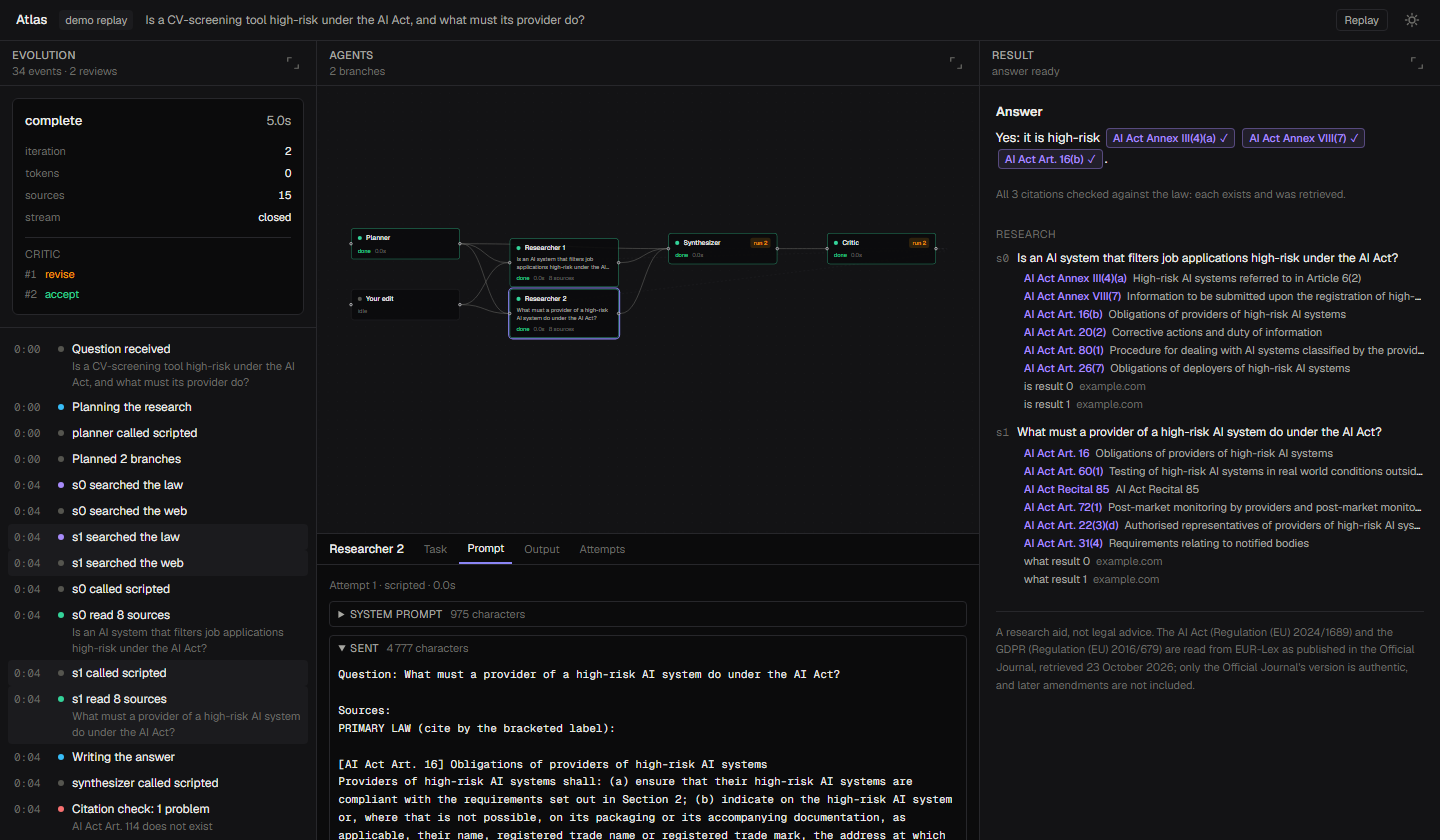
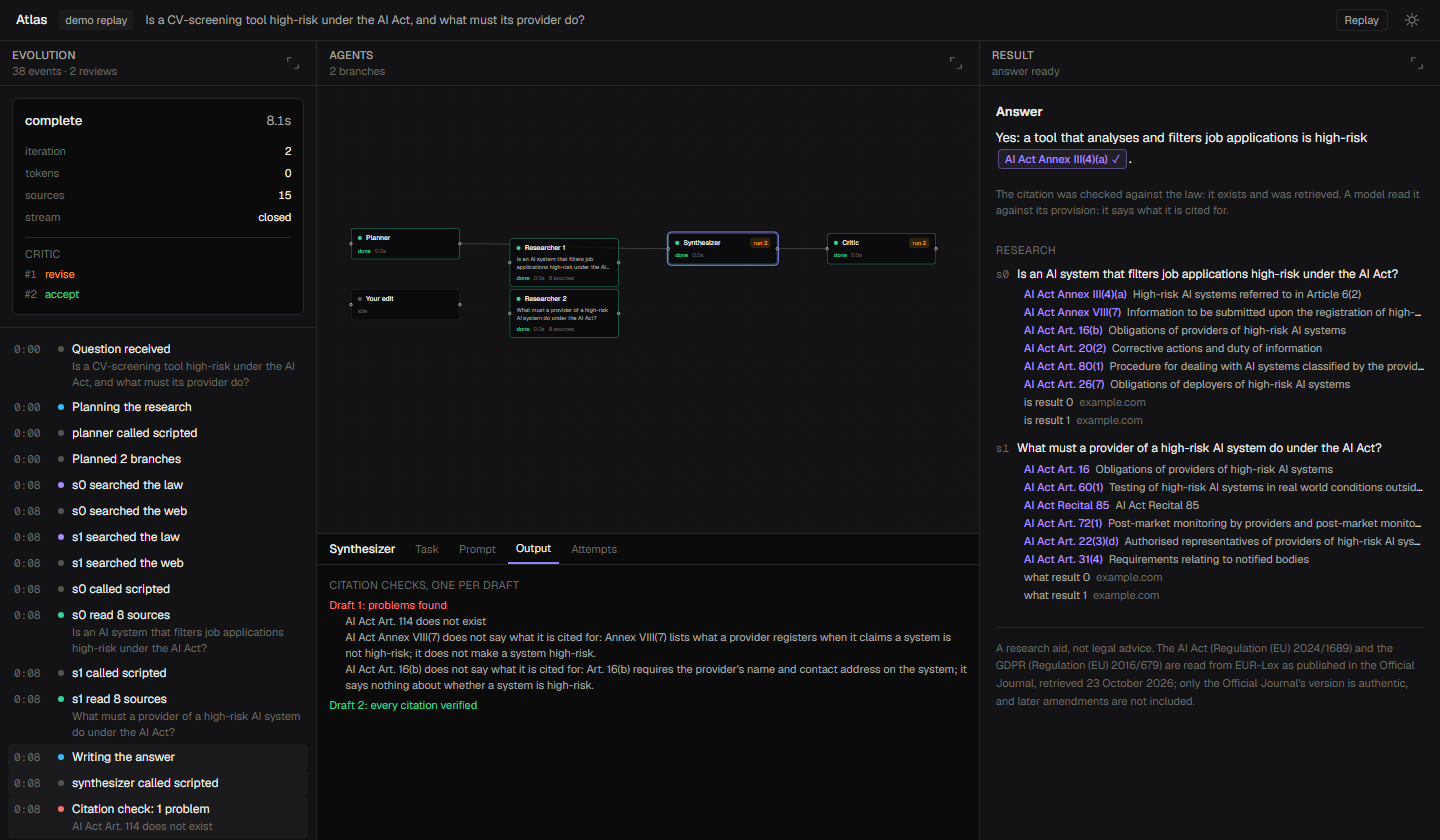
docs: the support check in the README, the report and the screenshot
The screenshot opens the synthesizer's drafts: the first caught for an
invented article and for two citations that do not say what they are
cited for, the second clean. The report says why the check exists (the
Art. 2(3) run), how it is held to evidence, and that its accuracy is
not measured yet. Test counts brought up to date.

diff --git a/docs/REPORT.md b/docs/REPORT.md
@@ -126,8 +126,28 @@ approve an answer citing an article that does not exist; this check is not a jud
 not defer to one. When the rounds run out, the answer goes out marked `unverified_citation` rather
 than silently.
 
+**Then, a check of what the citation says.** The first live run through the new workspace cited
+`[AI Act Art. 2(3)]` for the act reaching providers outside the Union. That paragraph is the
+national-security exclusion; the rule meant is Art. 2(1)(c). The provision existed and had been
+retrieved, so the three tests passed it. The model critic, asked to hold claims to their provisions,
+passed it too. Telling the two apart takes reading, so a model does it, as narrowly as possible
+(`atlas/library/support.py`):
+
+- **It sees one claim at a time.** For each citation that passed the three tests, the judge gets
+  one sentence and the cited provision's own text. It never sees the whole answer or its sources.
+- **"Supported" must quote the provision's words, verbatim.** The quote is checked against the
+  text with the same matcher as quotations in answers. A support claim whose quote is not there is
+  *unverified*. That is not evidence the citation is wrong, so nothing is sent back for it; nor is
+  it evidence it is right, so it is not counted as supported.
+- **Only an explicit "does not support" sends a draft back.** The judge's one-line reason goes to
+  the rewrite. Out of rounds, the answer goes out marked `unsupported_citation`.
+- **Its cost is bounded.** One call per critic round, run alongside the critic's own review, up to
+  12 citations, with the rest counted unchecked. A failed call is recorded as
+  `citation_support_unavailable`, never read as a pass.
+
 **How the UI and the API stay in step.** The UI shows each citation as a chip with the last check's
-verdict. The chip's parser is a TypeScript port of the backend's. It is held to a fixture the backend
+verdict. A support judgement is shown only on the draft it judged: draft *n* is read in critic
+round *n*, and a reading of another draft says nothing about the answer on screen. The chip's parser is a TypeScript port of the backend's. It is held to a fixture the backend
 writes from its own parser (`citation-cases.json`), so the two cannot drift apart silently.
 
 ### 3.5 Editing a branch forks a run
@@ -251,6 +271,7 @@ wrong thing, while everything looks fine. These were found during this work:
 | The component tests typechecked | Two never had: on a case-insensitive disk `Inspector.test.tsx` and `inspector.test.ts` share a name, and TypeScript keeps only the `.ts` | A required prop added without a type error |
 | The demo showed agents | Its recording bypassed the model layer, so it held no prompts to show | Opening the Prompt tab on the demo |
 | A compliance baseline could be scored | The judge charged `plain` for tool use and grounding it cannot have | A test, failing first, at 0.67 |
+| A live answer's citations all passed | One cited the national-security exclusion, Art. 2(3), for extraterritorial reach, Art. 2(1)(c); real, retrieved, and wrong | Reading the provision a chip linked to. That reading is now the support check |
 | A deleted run's stream was gone | The Redis test double's DEL ignored streams, so the tests could not tell | Making the double behave like Redis |
 | `DELETE /threads/{id}` was queued | A renamed worker function would have left every deletion queued for nobody | A test pinning the job's registered name |
 
@@ -260,9 +281,10 @@ wrong thing, while everything looks fine. These were found during this work:
 |---|---|
 | Library retrieval, one search per question | recall@10 0.750, recall@5 0.625, all must-cites for 26 of 40 |
 | Engine regression gate, 50 general questions | completion 0.995, grounding 0.955, tool use 0.963; thresholds 5 / 4 / 3 pp from a measured noise floor |
-| Tests | 515 backend, 13 more against Postgres, 127 frontend; no network, no spend |
+| Tests | 527 backend, 13 more against Postgres, 135 frontend; no network, no spend |
 | **Not measured: the domain eval** | Built and tested; needs about $12–15 of model calls (estimated) |
 | **Not measured: Atlas's own retrieval** | One search per branch, rather than per question |
+| **Not measured: the support check's accuracy** | How often its "does not support" is right, and how often it misses one |
 | **Not done: dataset review** | The 40 compliance questions were drafted by a model; none has been reviewed by a person |
 
 ## 6. Limitations
@@ -274,9 +296,10 @@ wrong thing, while everything looks fine. These were found during this work:
   questions and rubrics are a model's drafts until a person reviews them, and the README says so.
 - **The eval measures citing the law, not guidance.** With the web off, it does not measure how
   well Atlas uses official guidance.
-- **The citation check stops at existence, retrieval and quotation.** It tests that a cited
-  provision exists, was read, and is quoted faithfully. It does not test that the provision supports
-  the sentence around it; that is the judge's grounding score, which is a judgement.
+- **Whether a provision supports its sentence is a judgement.** The deterministic check stops at
+  existence, retrieval and quotation. The support check goes further, but it is a model reading, held
+  to quotes it cannot fake and not yet measured. A wrong "does not support" costs a rewrite; a missed
+  one goes out as before.
 - **One person.** The dataset, the labels and the review are one person's.
 
 ## 7. Reproducing

diff --git a/README.md b/README.md
@@ -14,9 +14,11 @@ the research and re-run only that branch.
   <img alt="The Atlas workspace: the run's timeline on the left, the agent graph with one researcher's exact prompt open in the middle, and the answer with its checked citation chips on the right" src="docs/img/workspace-light.png">
 </picture>
 
-*The recorded demo. The citation check has caught an invented article, "AI Act Art. 114" (the act
-has 113), and sent the draft back. Researcher 2's exact prompt is open, with the law it was given.
-Each chip in the answer carries its check's verdict.*
+*The recorded demo, with the synthesizer's drafts open. The first draft cited an article that does
+not exist ("AI Act Art. 114"; the act has 113). It also cited two real, retrieved provisions for
+something they do not say: Art. 16(b) is about the provider's contact details, not about what is
+high-risk. Both checks sent it back. The rewrite keeps the one citation that holds, read against its
+provision.*
 
 > A research aid, not legal advice. The law's text is EUR-Lex's, reused under Commission Decision
 > 2011/833/EU; see [NOTICE](NOTICE).
@@ -38,8 +40,13 @@ that. A check that knows the law does.
   - a researcher actually retrieved it in this run;
   - any quotation beside it is the provision's own words.
 
-  A draft that fails is sent back with the failures listed. In the UI each citation is a chip
-  carrying its verdict; hover it to read the article itself.
+  Then a model reads each citation that passed, one sentence and one provision at a time, and judges
+  whether the provision says what the sentence says. A "yes" counts only if it quotes the provision's
+  own words, and the quote is checked against the text.
+
+  A draft that fails either check is sent back with the failures listed. In the UI each citation is
+  a chip carrying its verdict; hover it to read the article, and why it was or was not judged to
+  support its sentence.
 - **It reads the law, not a search engine's idea of it.**
   - Both regulations are ingested from the Publications Office's official XHTML into provisions with
     stable ids. Golden counts are tested: the AI Act's 113 articles, 13 annexes and 180 recitals; the
@@ -81,8 +88,9 @@ npm run dev
 Open <http://127.0.0.1:3000/demo>. It shows a recorded run replayed through the real workspace:
 
 - researchers reading the regulation library;
-- the citation check catching an invented article in the first draft;
-- the rewrite that fixes it.
+- the first draft caught twice: once citing an invented article, and once citing two real provisions
+  for what they do not say;
+- the rewrite that fixes both.
 
 Click any agent to read the prompt it was actually sent. The open agent and tab live in the URL, so
 <http://127.0.0.1:3000/demo?node=researcher:s1&tab=prompt> goes straight to one researcher's prompt. The recording ran through the real graph and
@@ -96,7 +104,7 @@ prompts, with only the model scripted, and the run says so: each call reports th
 |---|---|
 | Library retrieval, one search per question | recall@10 **0.750** over the 40 compliance questions; every required provision found for 26 of 40 (`atlas_eval retrieval`) |
 | Engine regression gate, 50 general questions | completion 0.995, grounding 0.955, tool use 0.963; run-to-run noise measured, gate thresholds set from it (5 / 4 / 3 pp) |
-| Tests | **515** backend (plus 13 against Postgres) · **127** frontend, no network calls, no spend |
+| Tests | **527** backend (plus 13 against Postgres) · **135** frontend, no network calls, no spend |
 
 **Not measured yet: the headline.** The domain eval compares three systems on 40 questions:
 
@@ -107,6 +115,9 @@ prompts, with only the model scripted, and the run says so: each call reports th
 It scores the share of answers citing a provision that does not exist, plus citation precision and
 recall, all deterministically. It is built and tested ([below](#the-domain-eval)) but has not been
 run. Its numbers will come from committed run files, never typed in.
+
+How often the support check judges correctly is not measured yet either. It is a model's judgement,
+held to quotes it cannot fake, but nobody has counted its mistakes.
 
 The 40 questions were drafted by a model from the regulation text, and every expected citation is
 checked against the library. None has been reviewed by a person yet. `atlas_eval claim` says so, and
@@ -481,7 +492,7 @@ Three systems answer the 40 compliance questions:
 |---|---|
 | `plain` | One model call, no retrieval, asked to cite in the same bracketed form. What a team gets by asking a model directly. |
 | `single-call` | One library search on the question as asked, answered by Atlas's own synthesizer. |
-| `atlas` | The full graph. |
+| `atlas` | The full graph, including the support check. |
 
 **Web search is off for all three, and each run file says so.** The comparison is about citing the
 law, and the law comes from the committed library. A live search would make the runs unrepeatable.
